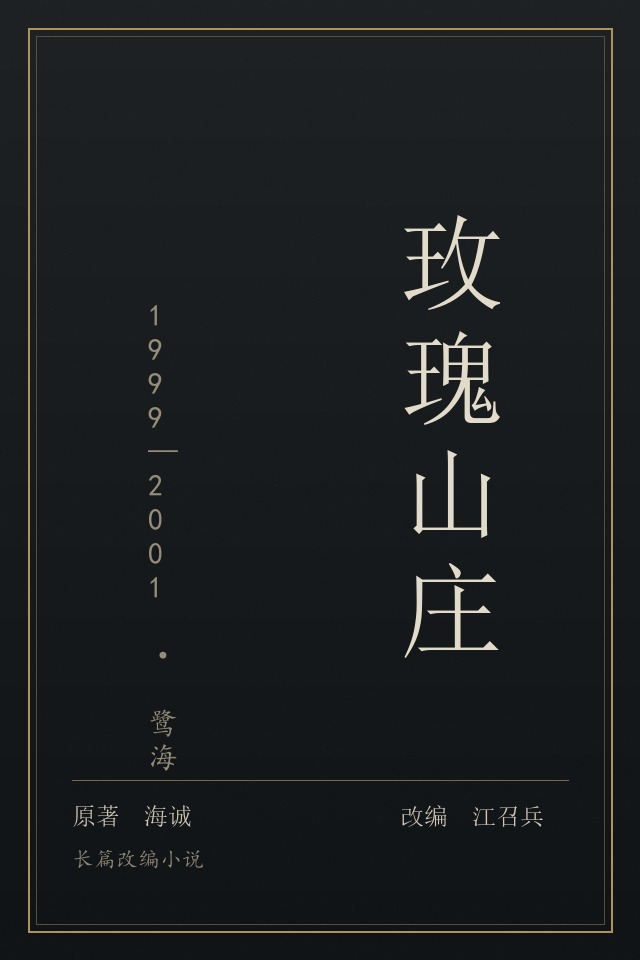
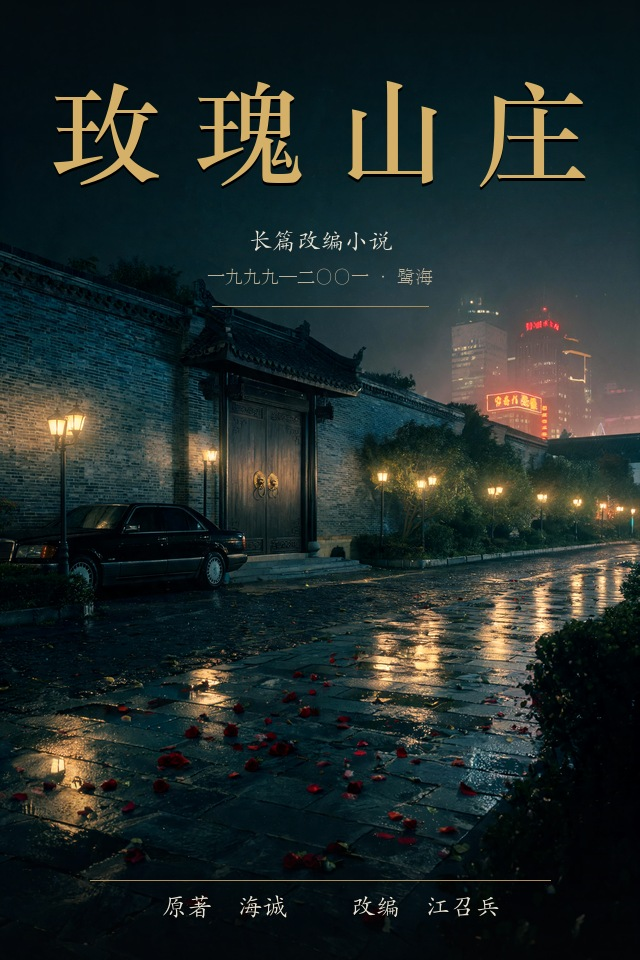
Rose Manor: new cover art (Dreamina + PIL), remove explicit wording from intro blurbs

diff --git a/books/meigui-shanzhuang/index.html b/books/meigui-shanzhuang/index.html
@@ -70,7 +70,7 @@
 
 <main class="reader" id="top">
   <div class="book-head">
-    <img class="web-cover" src="cover.jpg" alt="《玫瑰山庄》封面：原著海诚，改编江召兵" width="640" height="960">
+    <img class="web-cover" src="cover.jpg?v=2" alt="《玫瑰山庄》封面：原著海诚，改编江召兵" width="640" height="960">
     <h1 class="t">玫 瑰 山 庄</h1>
     <div class="s">鹭海旧事 · 一九九九—二〇〇一</div>
     <div class="a">海诚　原著　·　江召兵　改编</div>
@@ -90,7 +90,7 @@
     <p class="verse">玫瑰开在山里，是花；开在桌上，是价。</p>
     <hr>
     <h2>内容简介</h2>
-    <p>一九九九年春，省报《东方时报》记者杨天晨收到一封没有落款的信：同学孟宁死在鹭海，警方的结论是嫖娼后跳楼。孟宁死前给妻子艾妹儿发过一封电子邮件，信里说“我发现了一个更大的秘密”。</p><p>杨天晨去了鹭海。阿拉丁大酒店十八楼的霓虹、玫瑰山庄门口两排路灯、一号楼不许带手机、二号楼不许问名字、三号楼不许乱看——一个叫沈华昌的农民，用十年把“请客送礼”做成了生意，又用三栋楼把客人、女人和把柄一起装进去。海关关长马建贤、省公安厅副厅长张子顺、市委副书记柳峰，都在山庄的名单上。</p><p>他想查清一个死人的事，最后查到自己头上：跟踪的奔驰、被调回的调令、一盘消失的录音带、一个怀了孩子的女人。这是1999年的鹭海，也是所有“特区”正在变成城市的那几年。</p>
+    <p>一九九九年春，省报《东方时报》记者杨天晨收到一封没有落款的信：同学孟宁死在鹭海，警方的结论是他在酒店坠楼。孟宁死前给妻子艾妹儿发过一封电子邮件，信里说“我发现了一个更大的秘密”。</p><p>杨天晨去了鹭海。阿拉丁大酒店十八楼的霓虹、玫瑰山庄门口两排路灯、一号楼不许带手机、二号楼不许问名字、三号楼不许乱看——一个叫沈华昌的农民，用十年把“请客送礼”做成了生意，又用三栋楼把客人、女人和把柄一起装进去。海关关长马建贤、省公安厅副厅长张子顺、市委副书记柳峰，都在山庄的名单上。</p><p>他想查清一个死人的事，最后查到自己头上：跟踪的奔驰、被调回的调令、一盘消失的录音带、一个怀了孩子的女人。这是1999年的鹭海，也是所有“特区”正在变成城市的那几年。</p>
     <h2>关于这本书</h2>
     <ul><li><b>体量</b>：楔子＋十九章＋尾声，共 21 节，正文约 147,429 字（不含标题与题记）。</li><li><b>底本</b>：海诚《玫瑰山庄》，人民文学出版社 2002 年 1 月第 1 版。本改编本保留原著全部正文，另增写约 27,841 字。</li><li><b>写法</b>：第三人称全知，九十年代通俗小说笔法：长句、白描、对话多，议论只放章首题记。增写的段落补人的来路与心理、山庄的场面与账目、案子背后的权力关系。</li><li><b>读法</b>：可从目录跳读；楔子写雪夜，尾声写回望，中间十九章按时间顺下来。</li></ul>
     <h2>作者简介</h2>

diff --git a/books/index.html b/books/index.html
@@ -484,7 +484,7 @@
 
         <article class="book-card" id="book-11">
           <figure class="book-figure">
-            <img src="./meigui-shanzhuang/cover.jpg" alt="Cover of Rose Manor" width="640" height="960">
+            <img src="./meigui-shanzhuang/cover.jpg?v=2" alt="Cover of Rose Manor" width="640" height="960">
             <figcaption>2026 &middot; Prologue, nineteen chapters and an epilogue</figcaption>
           </figure>
           <div class="book-body">
@@ -498,7 +498,7 @@
               <a class="bk-btn" href="./meigui-shanzhuang/">Web edition &middot; read the complete book online</a>
             </div>
             <div class="book-intro">
-              <p>In the spring of 1999 a reporter on the provincial paper, Yang Tianchen, receives an unsigned letter: his classmate Meng Ning has died in Luhai, and the police call it a fall from a hotel window while fleeing a vice raid. Yang goes to Luhai.</p>
+              <p>In the spring of 1999 a reporter on the provincial paper, Yang Tianchen, receives an unsigned letter: his classmate Meng Ning has died in Luhai, and the police call it a fall from a hotel window. Yang goes to Luhai.</p>
               <p>There is the Aladdin Hotel with its eighteenth-floor nightclub, a farm boy turned tycoon named Shen Huachang, and the Rose Manor: three buildings, one rule each &mdash; no phones in Building One, no names in Building Two, no prying in Building Three. On the manor's guest list are the customs chief, a deputy public-security director and a deputy party secretary. Adapted from Hai Cheng's 2002 novel: the original text is kept entire, with new material on motive, interior life and the machinery of power.</p>
               <p class="closing">A rose in the hills is a flower; a rose on the table is a price.</p>
             </div>

diff --git a/zh/books.html b/zh/books.html
@@ -485,7 +485,7 @@
 
         <article class="book-card" id="book-11">
           <figure class="book-figure">
-            <img src="../books/meigui-shanzhuang/cover.jpg" alt="《玫瑰山庄》封面" width="640" height="960">
+            <img src="../books/meigui-shanzhuang/cover.jpg?v=2" alt="《玫瑰山庄》封面" width="640" height="960">
             <figcaption>2026 · 楔子＋十九章＋尾声</figcaption>
           </figure>
           <div class="book-body">
@@ -499,7 +499,7 @@
               <a class="bk-btn" href="../books/meigui-shanzhuang/">网页版 · 在线阅读全文</a>
             </div>
             <div class="book-intro">
-              <p>一九九九年春，省报《东方时报》记者杨天晨收到一封没有落款的信：同学孟宁死在鹭海，警方说是嫖娼后跳楼。他去了鹭海。</p>
+              <p>一九九九年春，省报《东方时报》记者杨天晨收到一封没有落款的信：同学孟宁死在鹭海，警方说是他从酒店坠楼。他去了鹭海。</p>
               <p>阿拉丁大酒店十八楼的霓虹、玫瑰山庄门口两排路灯、三栋楼三条规矩——农民沈华昌用十年把“请客送礼”做成了生意。海关关长、公安厅副厅长、市委副书记，都在山庄的名单上。本改编本以海诚《玫瑰山庄》（人民文学出版社2002年版）为底本，保留原著全部正文，增写人物心理、山庄场面与案子背后的权力关系。</p>
               <p class="closing">玫瑰开在山里，是花；开在桌上，是价。</p>
             </div>
